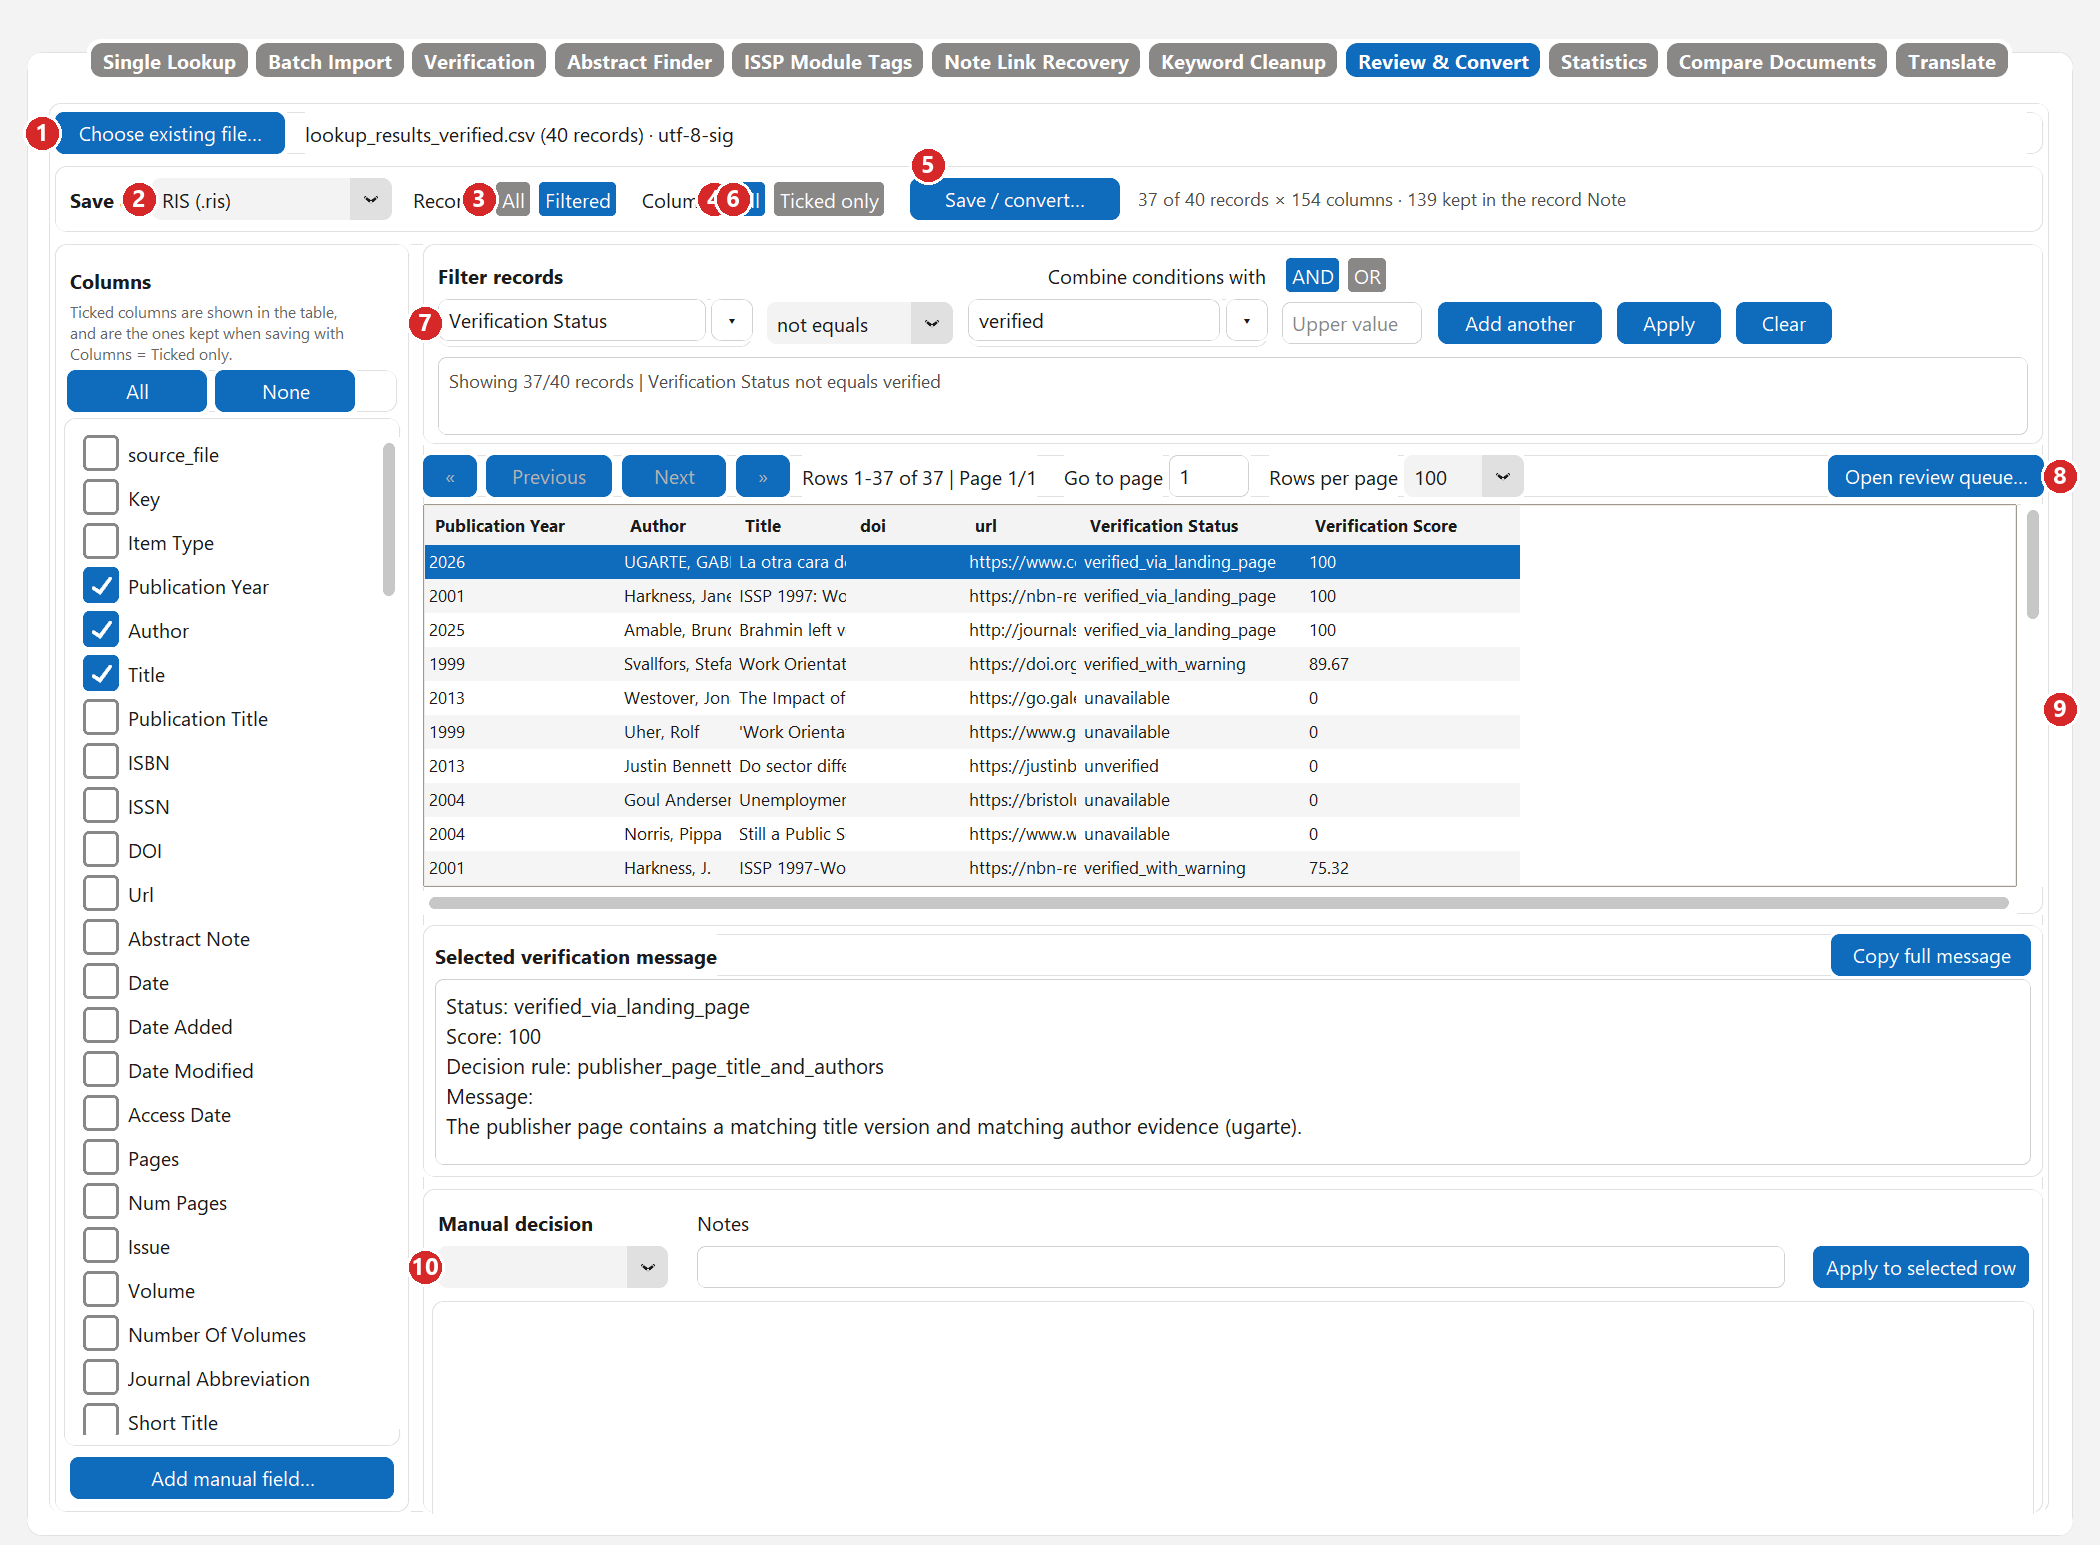
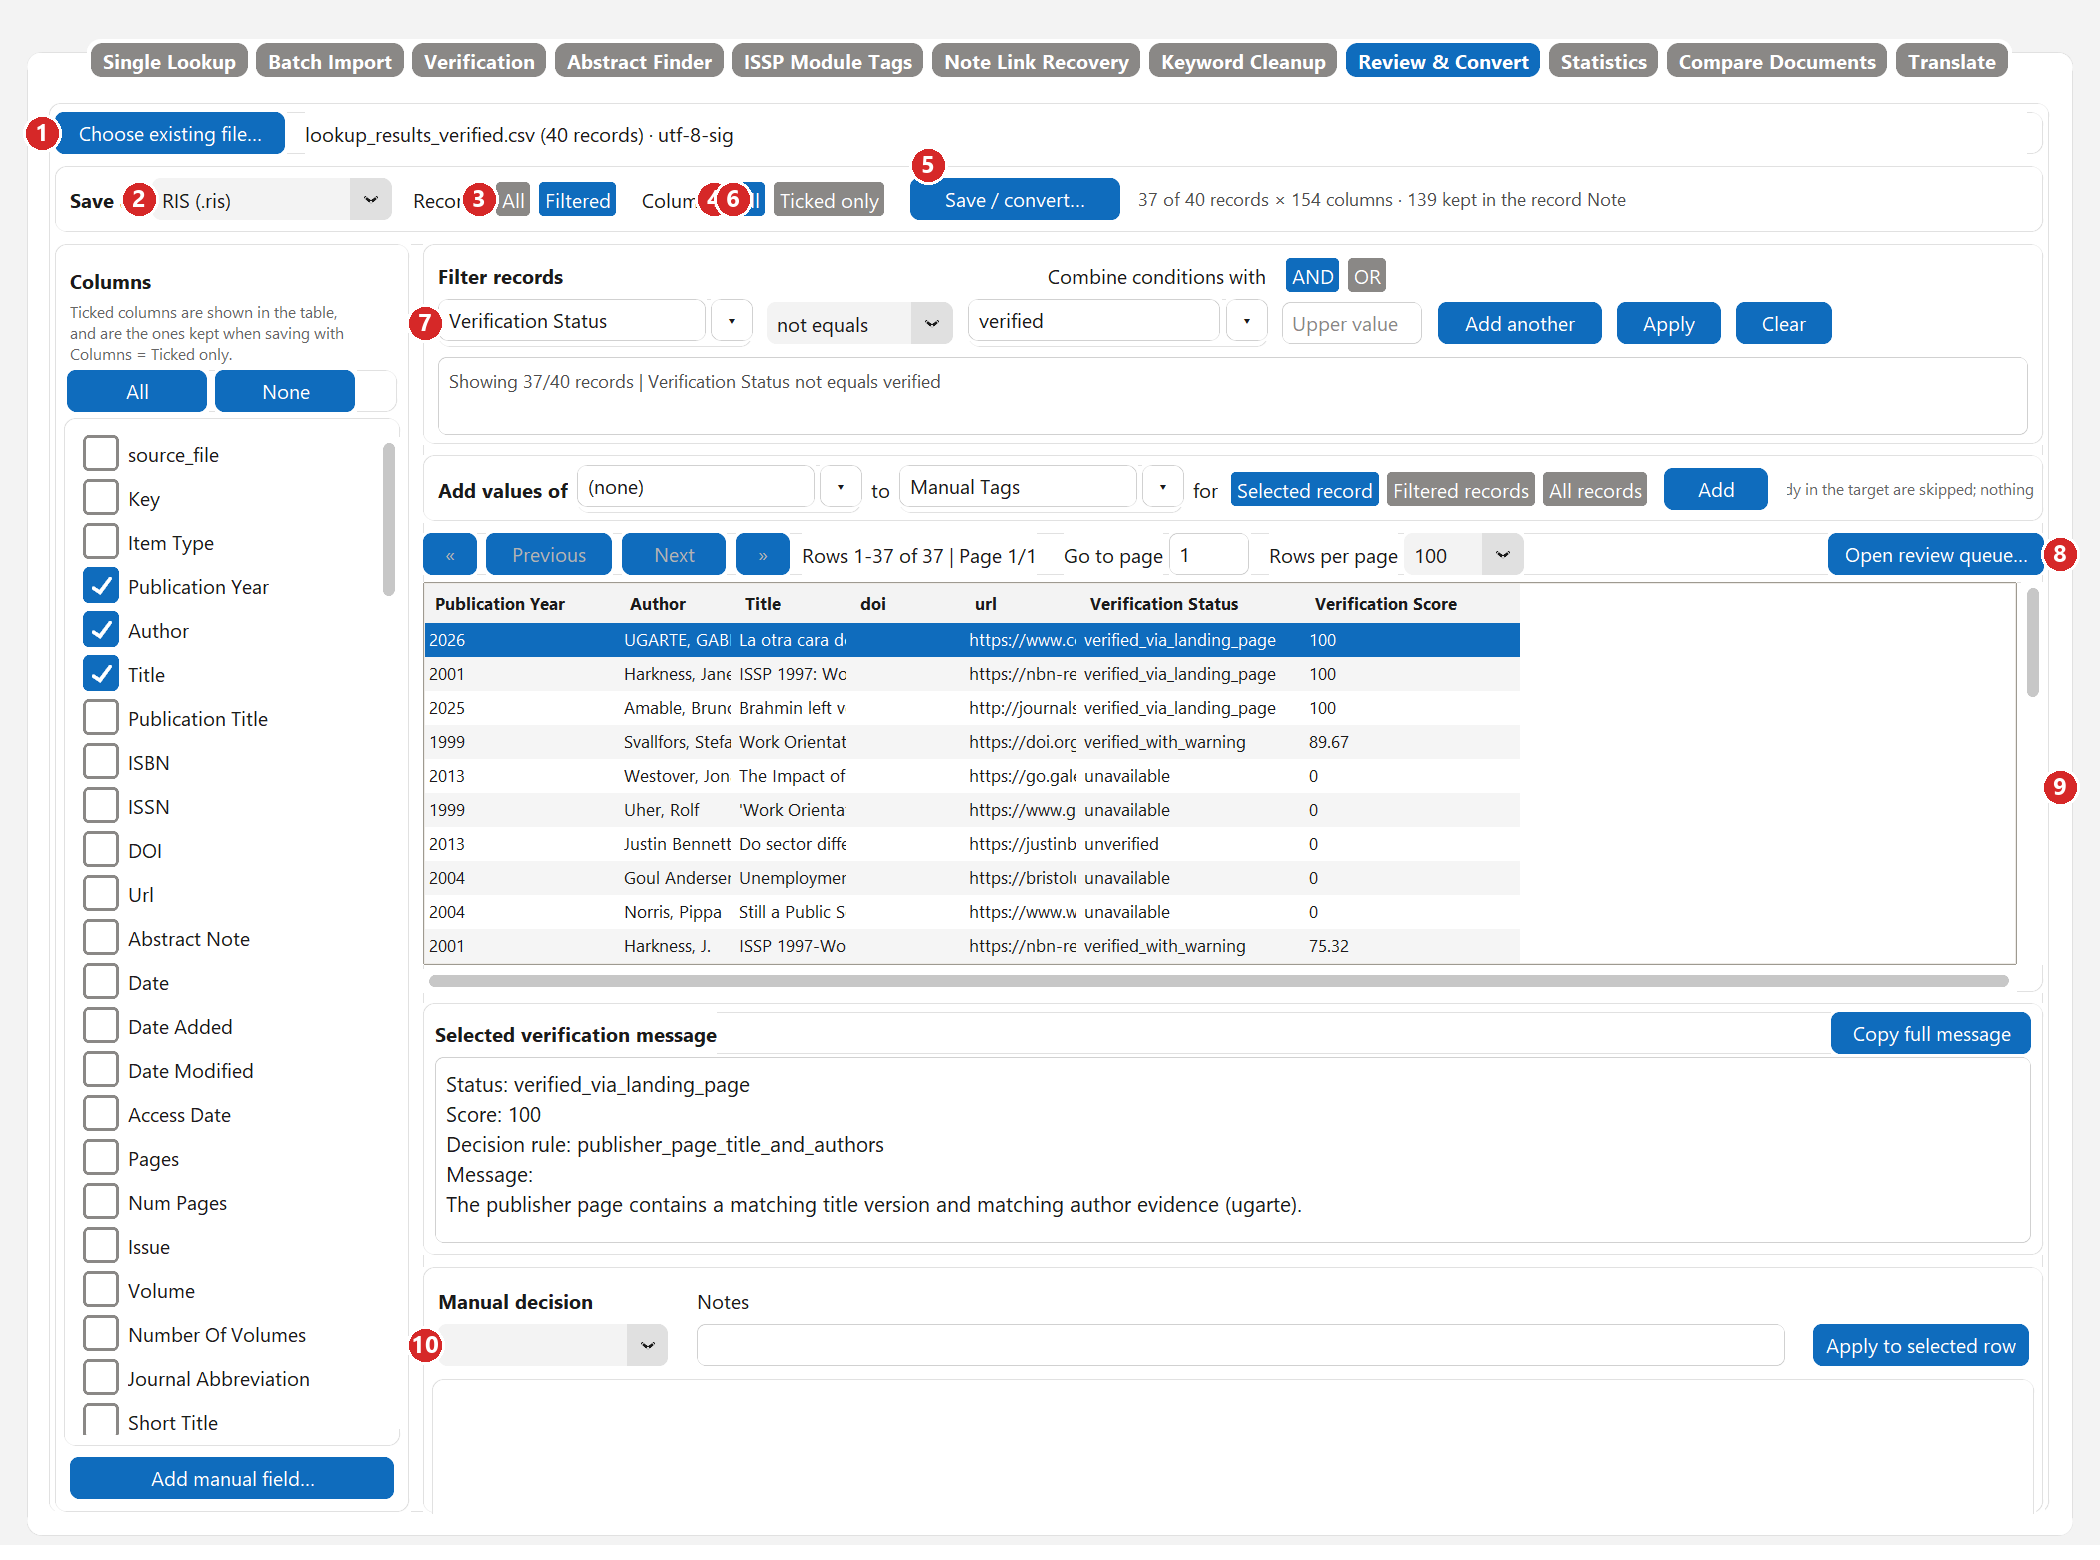
User guide 1.1: ISSP confidence columns, Add values, export prompt, resizable Statistics
Also update the ISSP status message: module tags now go to the confidence columns, not the keywords.

diff --git a/system/manual/build_manual.py b/system/manual/build_manual.py
@@ -30,7 +30,7 @@ DARK = colors.HexColor("#1B1B1B")
 GREY = colors.HexColor("#5F6368")
 LIGHT = colors.HexColor("#F3F6FA")
 RED = colors.HexColor("#D62828")
-VERSION = "Version 1.0 · September 2026"
+VERSION = "Version 1.1 · October 2026"
 
 body = ParagraphStyle("body", fontName="Sans", fontSize=9.6, leading=14, textColor=DARK, spaceAfter=5)
 small = ParagraphStyle("small", parent=body, fontSize=8.6, leading=12, textColor=GREY)
@@ -310,7 +310,10 @@ P("Export from Zotero with <i>File → Export Library…</i> (or right-click a c
   "<i>Export Collection…</i>) and choose <b>RIS</b> or <b>CSV</b>. After processing, import the saved file "
   "with <i>File → Import…</i>. Standard fields (DOI, URL, abstract, tags, notes) map to Zotero's own "
   "fields. Extra columns the RIS/BibTeX formats have no field for, such as verification details, are "
-  "stored in each record's Note and are restored as columns when this app opens the file again.")
+  "stored in each record's Note and are restored as columns when this app opens the file again. Before "
+  "saving such columns to RIS or BibTeX, the app lists them and asks: <b>Yes</b> keeps them in the Note, "
+  "<b>No</b> leaves them out of the file, <b>Cancel</b> does not save. CSV and Excel keep every column "
+  "as an ordinary column.")
 callout_box("When a cleanup page (Note Link Recovery or Keyword Cleanup) saves a RIS file as RIS, only "
             "the lines it changed are rewritten. Every other field of your original file, including "
             "volume, issue, pages, ISSN, dates and language, is kept exactly as it was.", "Tip")
@@ -513,22 +516,39 @@ P("The evidence (page title, authors, year, DOI and match scores) is written to 
 # =============================================================================
 H1("8. ISSP Module Tags")
 P("This page identifies which ISSP (International Social Survey Programme) module or modules a publication "
-  "uses, and writes a module tag into its keywords, together with the evidence.")
+  "uses, with the evidence and a confidence level for every tag. The module tags are written into three "
+  "columns, one per confidence level, so you can check them before any of them reach the keywords.")
 figure("09_issp_module_tags", "ISSP Module Tags after classifying a file.", [
     ("Title / Abstract / Notes columns", "The text that is searched for module evidence."),
-    ("Tags/Keywords column", "Where the module tags are added. Existing keywords are kept."),
+    ("Tags/Keywords column", "Where “DATA - &lt;country&gt;” tags (and module tags, if chosen in 5) are "
+                             "added. Existing keywords are never removed."),
     ("Resolve GESIS DOIs online", "Looks up GESIS dataset DOIs (10.4232/1.xxxxx) to find the study they "
                                   "cite. Needed when a record cites only a DOI, not a ZA study number."),
     ("Search the full text", "Also downloads each linked page/PDF and searches it, reaching Methods/Data "
                              "sections an abstract misses. Much slower. It also tags which countries' "
                              "data were used, as “DATA - &lt;country&gt;”."),
+    ("Module tags into the keywords", "<i>None (review later)</i>, the default, keeps module tags only "
+                                      "in the confidence columns. <i>High</i>, <i>High + medium</i> or "
+                                      "<i>All (incl. low)</i> also adds the tags at or above that level "
+                                      "to the keywords."),
     ("Classify records", "Starts the classification."),
     ("Results", "Tag, confidence, status, data countries, where the evidence was found and the exact "
                 "quote or reason."),
 ])
-P("ZA study numbers, resolved GESIS DOIs and exact module names count as <b>confirmed</b> evidence. "
-  "Matches that rely only on topic keywords are flagged <b>lower confidence</b> so you can review them. A "
-  "record can receive more than one module tag.")
+P("A record can receive more than one module tag. Each tag gets one of three confidence levels:")
+table([
+    ["Confidence", "Evidence", "Column"],
+    ["High", "A ZA study number, a resolved GESIS DOI (10.4232/…), or an exact ISSP module name.",
+     "ISSP Tags (high)"],
+    ["Medium", "At least two topic phrases typical of one module.", "ISSP Tags (medium)"],
+    ["Low", "Similar in meaning only (one best tag per record). Check these by hand.", "ISSP Tags (low)"],
+], [0.16, 0.56, 0.28])
+P("Each record also gets a status: <i>Tagged</i>, <i>Not reported</i> (there was readable text but no "
+  "ISSP module was found) or <i>Unavailable</i> (no abstract or full text to analyse).")
+P("When you export to RIS or BibTeX, the three columns are stored in each record's Note (the app asks "
+  "first; see <i>Zotero round trip</i>). Open the exported file in <b>Review &amp; Convert</b> to see them "
+  "as columns again and to add the tags you accept to the keywords with <b>Add values</b> "
+  "(section 11.1).")
 callout_box("The option “Match by meaning” is not included in this version of the app. It needs a "
             "large machine-learning component, so it is shown greyed out. All other matching steps run "
             "normally.", "Note")
@@ -585,7 +605,8 @@ figure("12_review_convert", "A verification result filtered to the records that 
                 "apply a filter)."),
     ("Columns", "<i>All</i> columns, or <i>Ticked only</i> (the columns ticked on the left). The summary "
                 "next to the button shows what will be saved."),
-    ("Save / convert…", "Saves the copy. Columns RIS/BibTeX cannot hold are kept in the record Note."),
+    ("Save / convert…", "Saves the copy. For RIS/BibTeX, the app first lists any columns the format has "
+                        "no field for and asks whether to keep them in the record Note."),
     ("Columns", "Tick the columns to display (and to keep with <i>Ticked only</i>). All / None tick every "
                 "column; <i>Add manual field…</i> creates a new column for your own notes."),
     ("Filter records", "Build conditions (equals, contains, is blank, &gt;, between, …), combine them "
@@ -596,7 +617,22 @@ figure("12_review_convert", "A verification result filtered to the records that 
     ("Manual decision / Notes", "Quick decision for the selected row: Approved, Rejected, Needs review or "
                                 "Unverifiable, plus a note. Click <i>Apply to selected row</i>."),
 ])
-H2("11.1 The review queue")
+H2("11.1 Adding one column's values to another")
+P("<b>Add values</b> copies the items of one column into another column, for example the module tags you "
+  "accept from <i>ISSP Tags (low)</i> into <i>Keywords</i>. Items are separated by semicolons or new "
+  "lines; an item already in the target is not added twice, and nothing is removed.")
+figure("12b_add_values", "Adding a record's checked module tags to its keywords.", [
+    ("Add values of", "The column to copy from. After an ISSP Module Tags run this is preset to "
+                      "<i>ISSP Tags (low)</i>."),
+    ("to", "The column to add to, normally the keywords column. A new column name creates it."),
+    ("for", "<i>Selected record</i>, the <i>Filtered records</i>, or <i>All records</i>."),
+    ("Add", "Adds the values and shows how many records changed. Save with <b>Save / convert…</b>."),
+    ("Records", "Tick the ISSP Tags columns on the left to see them next to the keywords."),
+])
+callout_box("A typical workflow: add <i>ISSP Tags (high)</i> to <i>Keywords</i> for <b>All records</b>, "
+            "then filter on <i>ISSP Tags (medium)</i> or <i>ISSP Tags (low)</i> “is not blank”, check each "
+            "record, and add the tags you agree with for the <b>Selected record</b>.", "Tip")
+H2("11.2 The review queue")
 P("The review window shows one record at a time and compares the record's own values with the values "
   "found by lookup and verification.")
 figure("13_review_dialog", "Reviewing one record: the input record (left) against the retrieved "
@@ -646,6 +682,8 @@ figure("14_statistics", "Item types of a 12,000-record library.", [
     ("Counts", "Each value with its count and percentage. Keyword-type columns are counted per "
                "individual keyword."),
     ("Export table… / Save chart…", "Save the counts as CSV/Excel, or the chart as an image."),
+    ("Resize", "Drag the grey bar between the upper area and the counts table to make either taller, "
+               "and the bar between the overview and the chart to change their widths."),
 ])
 
 # =============================================================================

diff --git a/system/manual/capture_part3.py b/system/manual/capture_part3.py
@@ -17,6 +17,24 @@ def find(root, text, startswith=False):
     raise LookupError(text)
 
 
+class Spot:
+    """A point inside ``widget`` (x as a fraction of its width, y in pixels),
+    for markers on things that are not widgets, such as a paned-window bar."""
+    def __init__(self, widget, fx, y):
+        self.widget, self.fx, self.y = widget, fx, y
+
+    def winfo_rootx(self):
+        return self.widget.winfo_rootx() + int(self.widget.winfo_width() * self.fx)
+
+    def winfo_rooty(self):
+        return self.widget.winfo_rooty() + self.y
+
+    def winfo_width(self):
+        return 0
+
+    winfo_height = winfo_width
+
+
 for name in ("showinfo", "showwarning", "showerror"):
     mock.patch.object(ll.messagebox, name).start()
 app = start_app()
@@ -64,6 +82,22 @@ shot(d, "13_review_dialog", [(1, d.compare_switch), (2, d.view_toggle), (3, d.ed
                              (8, d.message_box), (9, d.review_state), (10, find(d, "Save & Next"), "right")])
 d._close()
 
+# ---- Review & Convert: Add values (ISSP confidence columns -> Keywords) ------------
+open_file(r, os.path.join(DEMO, "ISSP_sample_issp_module_tags.ris"))
+pump(app, 0.5)
+for column in r.column_vars:
+    r.column_vars[column].set(column in ("Title", "Keywords", "ISSP Tags (high)", "ISSP Tags (medium)",
+                                         "ISSP Tags (low)"))
+r.render_page()
+# The capture hides "match by meaning" (as the exe does), so the demo may have no low column.
+source = next(c for c in ("ISSP Tags (low)", "ISSP Tags (medium)", "ISSP Tags (high)") if c in r.df.columns)
+r.add_source.set(source); r.add_target.set("Keywords"); r.add_scope.set(r.SELECTED_SCOPE)
+tagged = [i for i, v in enumerate(r.df[source].fillna("")) if str(v).strip()] or [0]
+r.table.tree.selection_set(str(tagged[0])); r.select_row(tagged[0])
+pump(app, 0.8)
+shot(app, "12b_add_values", [(1, r.add_source), (2, r.add_target), (3, r.add_scope),
+                             (4, find(r, "Add"), "right"), (5, r.table, "right")])
+
 # ---- Statistics ------------------------------------------------------------------
 set_main_tab(app, "Statistics")
 st = app.statistics_page
@@ -75,7 +109,8 @@ st.on_generate(); pump(app, 1.5)
 shot(app, "14_statistics", [(1, st.value_col), (2, st.group_col), (3, st.chart_type),
                             (4, st.generate_btn, "right"), (5, st.overview_table, "inside"),
                             (6, st.canvas.get_tk_widget(), "inside"), (7, st.counts_table, "inside"),
-                            (8, st.export_chart_btn, "right")])
+                            (8, st.export_chart_btn, "right"),
+                            (9, Spot(st.vertical_panes, 0.5, st.vertical_panes.sash_coord(0)[1] + 4))])
 
 # ---- Compare Documents --------------------------------------------------------------
 set_main_tab(app, "Compare Documents")

diff --git a/system/literature_lookup.py b/system/literature_lookup.py
@@ -1445,6 +1445,7 @@ class IsspModulePage(ctk.CTkFrame):
         use_network_doi_lookup = self.network_doi_var.get()
         use_semantic_matching = self.semantic_var.get()
         keyword_min_confidence = self.KEYWORD_TIERS[self.keyword_tiers.get()]
+        self.run_keyword_tiers = self.keyword_tiers.get()
 
         def worker():
             try:
@@ -1482,9 +1483,13 @@ class IsspModulePage(ctk.CTkFrame):
                     self.run_btn.configure(state="normal"); self.stop_btn.configure(state="disabled")
                     self.export_btn.configure(state="normal")
                     self.status_var.set(
-                        f"Classification complete. Tags were written into '{tag_column}'. "
-                        f"Export to save, or open the export in Review & Convert to check "
-                        f"low/medium-confidence rows.")
+                        "Classification complete. Module tags are in the ISSP Tags (high) / "
+                        "(medium) / (low) columns"
+                        + ("" if self.run_keyword_tiers == self.NO_KEYWORD_TIERS else
+                           f" and ({self.run_keyword_tiers}) in '{tag_column}'")
+                        + f"; DATA country tags were added to '{tag_column}'. Export to save, then "
+                        "open the export in Review & Convert to add the tags you accept to the "
+                        "keywords (Add values).")
                     self._show_results(stats)
                 elif kind == "error":
                     self.running = False

diff --git a/system/manual/capture_part2.py b/system/manual/capture_part2.py
@@ -74,8 +74,12 @@ wait_until(app, lambda: not m.running, timeout=300)
 pump(app, 1.0)
 shot(app, "09_issp_module_tags", [(1, m.title_col), (2, m.tag_col), (3, find(m, "Also resolve GESIS", startswith=True)),
                                   (4, find(m, "Also download each record", startswith=True)),
-                                  (5, m.run_btn, "right"), (6, m.table, "right")])
+                                  (5, m.keyword_tiers), (6, m.run_btn, "right"), (7, m.table, "right")])
 print("issp:", m.status_var.get()[:120])
+# Saved for the "Add values" screenshot in part 3 (ISSP Tags columns kept in the Note).
+with mock.patch.object(ll.filedialog, "asksaveasfilename",
+                       return_value=os.path.join(DEMO, "ISSP_sample_issp_module_tags.ris")),         mock.patch.object(ll.messagebox, "askyesnocancel", return_value=True):
+    m.on_export()
 
 # ---- Note Link Recovery ------------------------------------------------------------
 set_main_tab(app, "Note Link Recovery")
